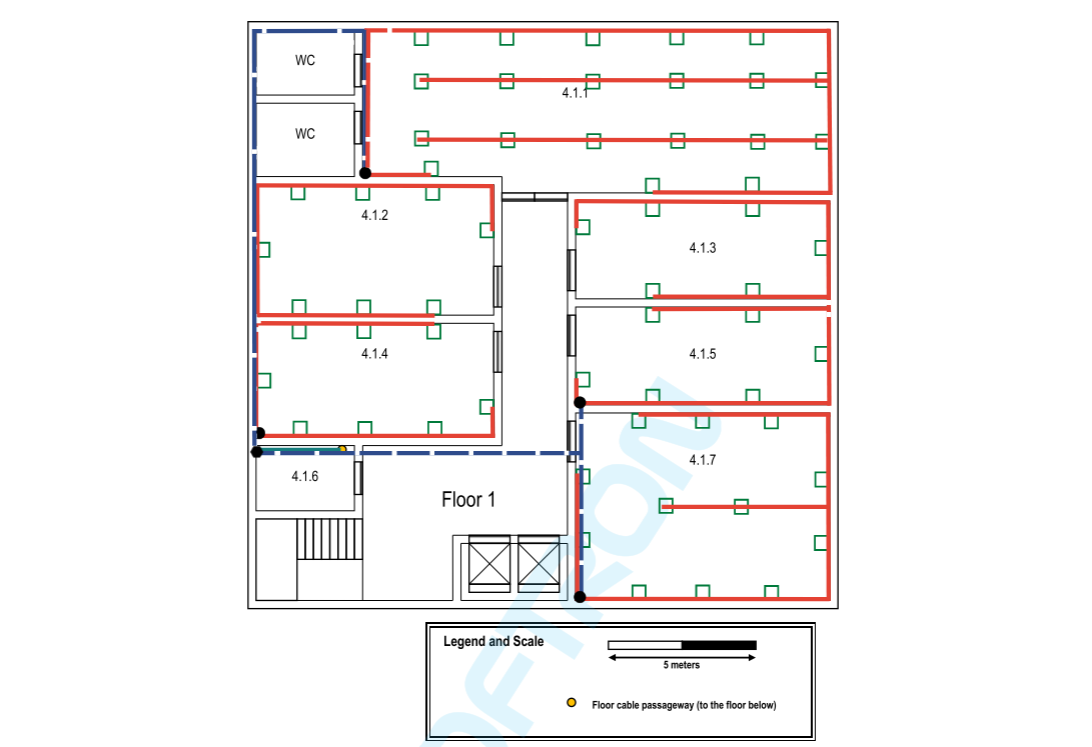
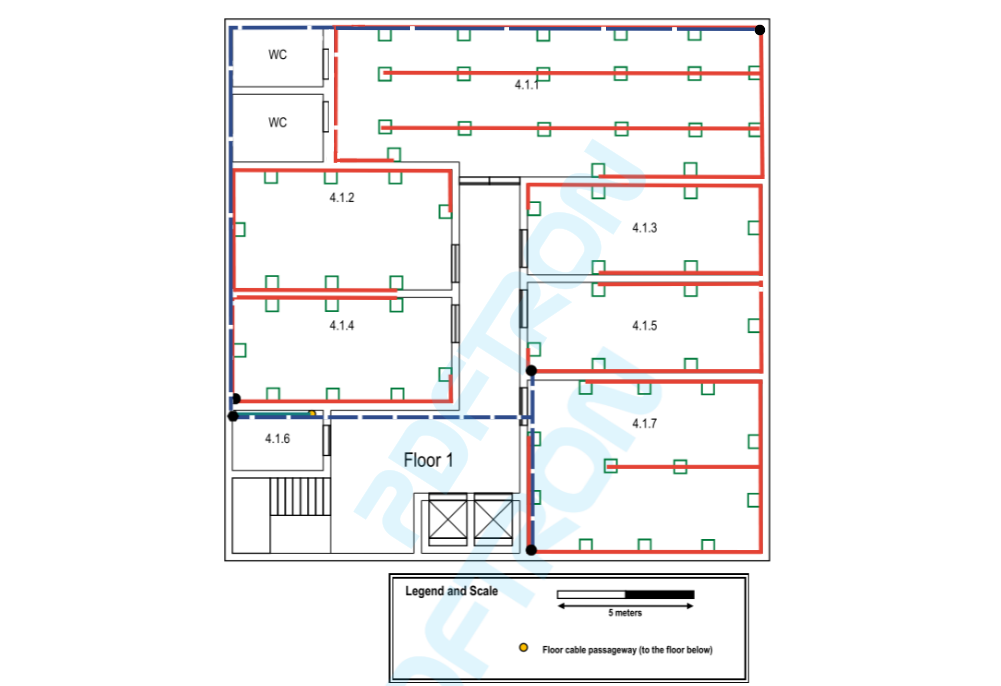
Updating md and displacing a CP on floor 1 to avoid unnecessary usage of cabling

diff --git a/doc/Sprint1/1201276/1201276.md b/doc/Sprint1/1201276/1201276.md
@@ -13,6 +13,8 @@ _**Figure 2** - Floor 1 measurements_
 >
 > ![MeasurementsTable](Figures/MeasurementsTable.png)<br>
 _**Figure 3** - Measurements table_
+>
+> *Note:* Room 4.0.2 has 7 outlets instead of the expected 6 since one of them it's being used by the wireless access point.
 
 After measuring every room, it was time to implement the schematic plan regarding network outlets, cross-connects and cable pathways deployment.
 >
@@ -31,18 +33,18 @@ _**Figure 5** - Ground Floor Design_
 >
 > On this floor, there are 4 consolidation points in rooms whose density of outlets justified its implementation.
 >
-> Every outlet on the wall is placed 50 centimeters above the ground, as well as the consolidation points. The others were placed in the ground.
+> Every outlet on the wall is placed granting that there is always an outlet with a distance less than 3 meters away from where our equipment is placed. The others were placed in the ground. Near doors, the outlets were a bit displaced so the door could be smoothly openned and closed.
 >
 > ![Floor1Design](Figures/Floor1Design.png)<br>
 _**Figure 6** - Floor 1 Design_
 > 
-> In the first floor, a HC is located in the storage area as well. The cables are installed in the dropped ceiling until the destination room is reached. 
+> On the first floor, an HC is located in the storage area as well. The cables are installed in the dropped ceiling until the destination room is reached. 
 >
-> Consolidation points were also installed in rooms with high density of outlets (a total of 4 CPs).
+> Consolidation points were also installed in areas with high density of outlets (a total of 4 CPs).
 >
 > No wireless access point was installed, due to the access point located on the ground floor granting connection to every place of the building.
 >
-> The outlets and consolidation points on the wall were also placed 50 centimeters above the ground. The other ones were installed in the ground.
+> The outlets were mainly placed on the wall. The other ones were installed in the ground. Consolidation points were placed in the dropped ceilling. Like in the ground floor, near the doors the outlets were a bit displaced.
 
 Finally, concerning the inventory required for both floors, these were our choices.
 
@@ -74,7 +76,7 @@ Finally, concerning the inventory required for both floors, these were our choic
 >>>
 >>> * CP (4.0.4) to outlets: 103,42 m copper cable
 >>>
->>> * HC to outlets (4.0.6 and 4.0.7): 91,46 m fibre cable
+>>> * HC to outlets (4.0.6 and 4.0.7): 91,46 m copper cable
 >>>
 >>> * CP (4.0.1) to CP (4.0.2): 6,77 m fibre cable
 >>>
@@ -94,11 +96,9 @@ Finally, concerning the inventory required for both floors, these were our choic
 >>>
 >>> * CP (4.1.4) to outlets: 159,31 m copper cable 
 >>>
->>> * HC to CP (4.1.1): 28,18 m fibre cable
+>>> * HC to CP (4.1.1): 37,15 m fibre cable
 >>>
->>> * CP (4.1.1) to outlets: 573,09 m copper cable 
->>>
->>> * CP (4.1.1) to outlets: 527,85 m copper cable // com update
+>>> * CP (4.1.1) to outlets: 220,22 m copper cable
 >>>
 >>> * HC to CP (4.1.5): 16,98 m fibre cable 
 >>>
@@ -114,13 +114,13 @@ Finally, concerning the inventory required for both floors, these were our choic
 >>>
 >>> * CP (4.1.4) to CP (4.1.7): 21,19 m fibre cable
 >>>
->>> * CP (4.1.1) to CP (4.1.5): 39,99 m fibre cable
+>>> * CP (4.1.1) to CP (4.1.5): 49,19 m fibre cable
 >>>
->>> * CP (4.1.1) to CP (4.1.7): 43,3 m fibre cable
+>>> * CP (4.1.1) to CP (4.1.7): 52,54 m fibre cable
 >>>
 >>> * CP (4.1.5) to CP (4.1.7): 10,79 m fibre cable
 >>>
->>> *Note*: The type of the fibre cables used is monomode optical fibre and the copper cables used is CAT7.
+>>> *Note*: The type of the fibre cables used is monomode optical fibre, ideal for longer cable lengths and immune to dispersion allowing higher data rates, and for the end user equipments we connected copper cables CAT7 due to most of the current end user hardware not providing an optical connection.
 >>
 >> ### **Network Outlets**
 >>> #### Ground Floor
@@ -133,18 +133,18 @@ Finally, concerning the inventory required for both floors, these were our choic
 >>> #### Ground Floor
 >>>  * 1 fibre patch panel with 48 ports (IC)
 >>>  * 1 fibre patch panel with 48 ports (HC)
->>>  * 1 cobber (CAT7) patch panel with 24 ports (HC)
+>>>  * 1 copper (CAT7) patch panel with 24 ports (HC)
 >>
 >>> #### First Floor
 >>>  * 1 fibre patch panel with 48 ports (HC)
 >>>  * 1 fibre patch panel with 24 ports (HC)
 >>>
->>> *Note*: All unused ports are there to prevent building growth)
+>>> *Note*: All unused ports are there to prevent building growth
 >>
 >> ### **Access Points**
 >>> #### Ground Floor
 >>>
->>>  * 1 access point
+>>>  * 1 access point with 50 meters diameter granting full wireless LAN (Wi-Fi) coverage.
 >>
 >> ### **Consolidation Points**
 >>>
